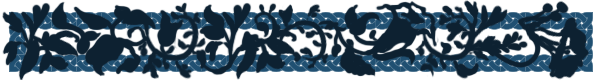
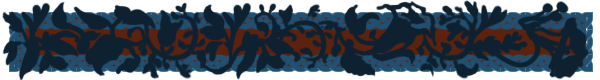
deco try too

diff --git a/Ars_Magica_5th.css b/Ars_Magica_5th.css
@@ -26,6 +26,7 @@
   --border-parchment: url(https://i.imgur.com/zcEOeFh.png);
   --border-lined: url(https://i.imgur.com/bSWSZsd.png);
   --img-header: url(https://i.imgur.com/tVJXhLY.png);
+  --img-header-deco: url(https://raw.githubusercontent.com/Riernar/arm5-sheet/master/assets/header-bar-deco.png);
   --img-azure: url(https://i.imgur.com/XX0R8PO.jpg);
   --img-azure-lite: url(https://i.imgur.com/onGNty0.jpg);
   --img-quill: url(https://i.imgur.com/Vvs8GAu.png);

diff --git a/mixins/sheet.scss b/mixins/sheet.scss
@@ -26,6 +26,7 @@
   --border-parchment: url(https://i.imgur.com/zcEOeFh.png);
   --border-lined: url(https://i.imgur.com/bSWSZsd.png);
   --img-header: url(https://i.imgur.com/tVJXhLY.png);
+  --img-header-deco: url(https://raw.githubusercontent.com/Riernar/arm5-sheet/master/assets/header-bar-deco.png);
   --img-azure: url(https://i.imgur.com/XX0R8PO.jpg);
   --img-azure-lite: url(https://i.imgur.com/onGNty0.jpg);
   --img-quill: url(https://i.imgur.com/Vvs8GAu.png);
